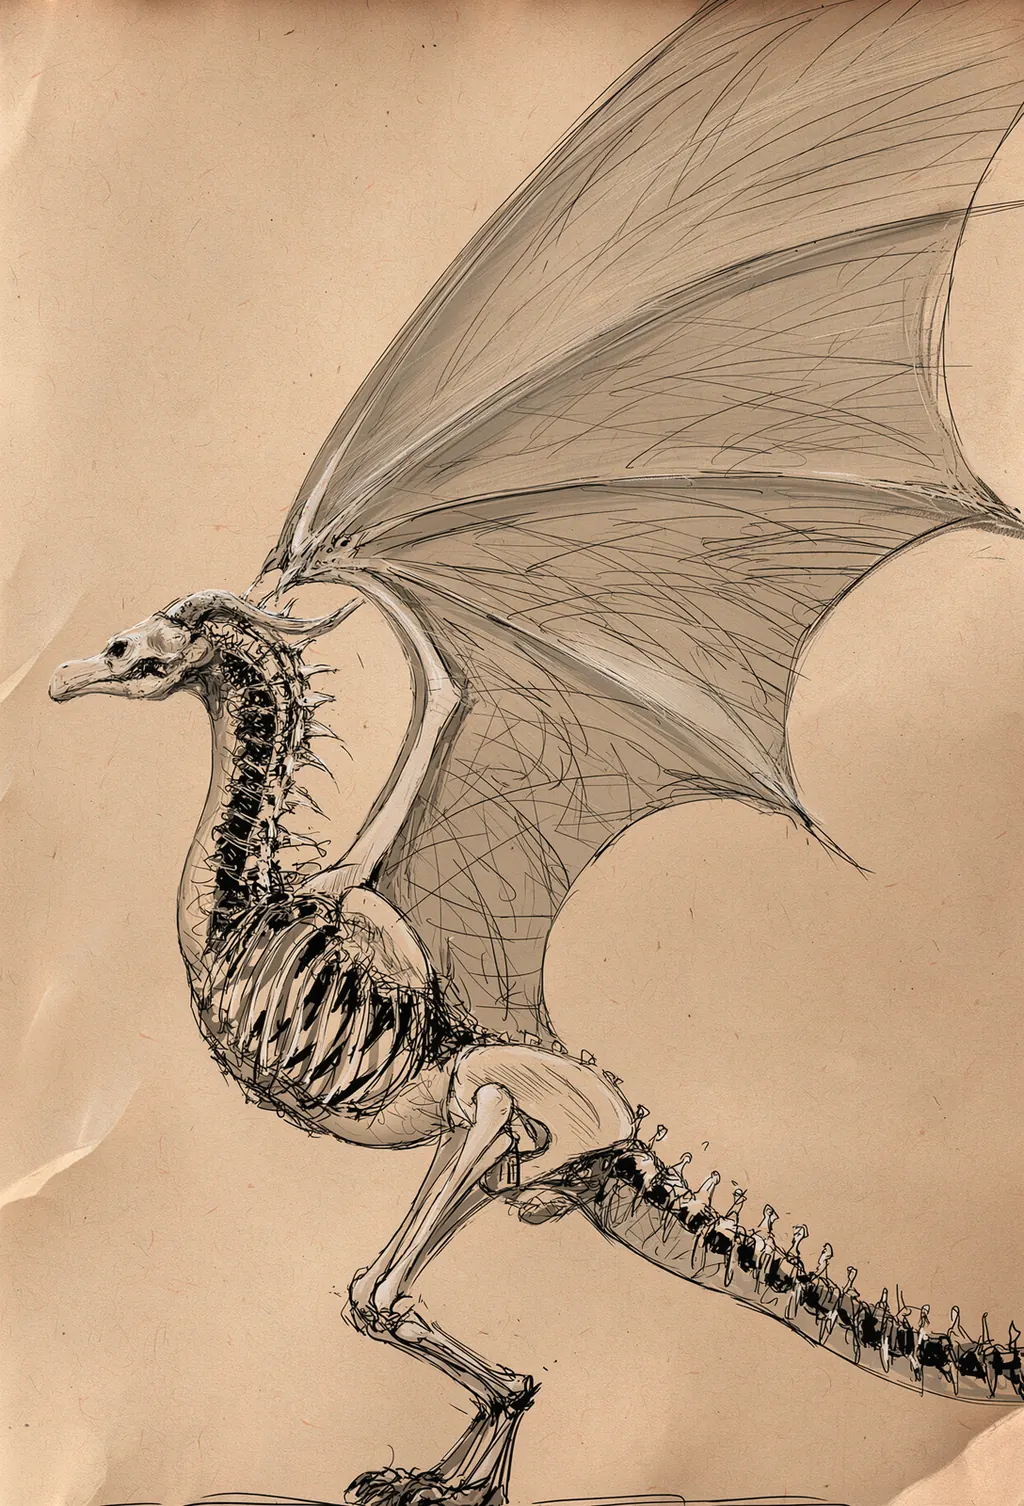
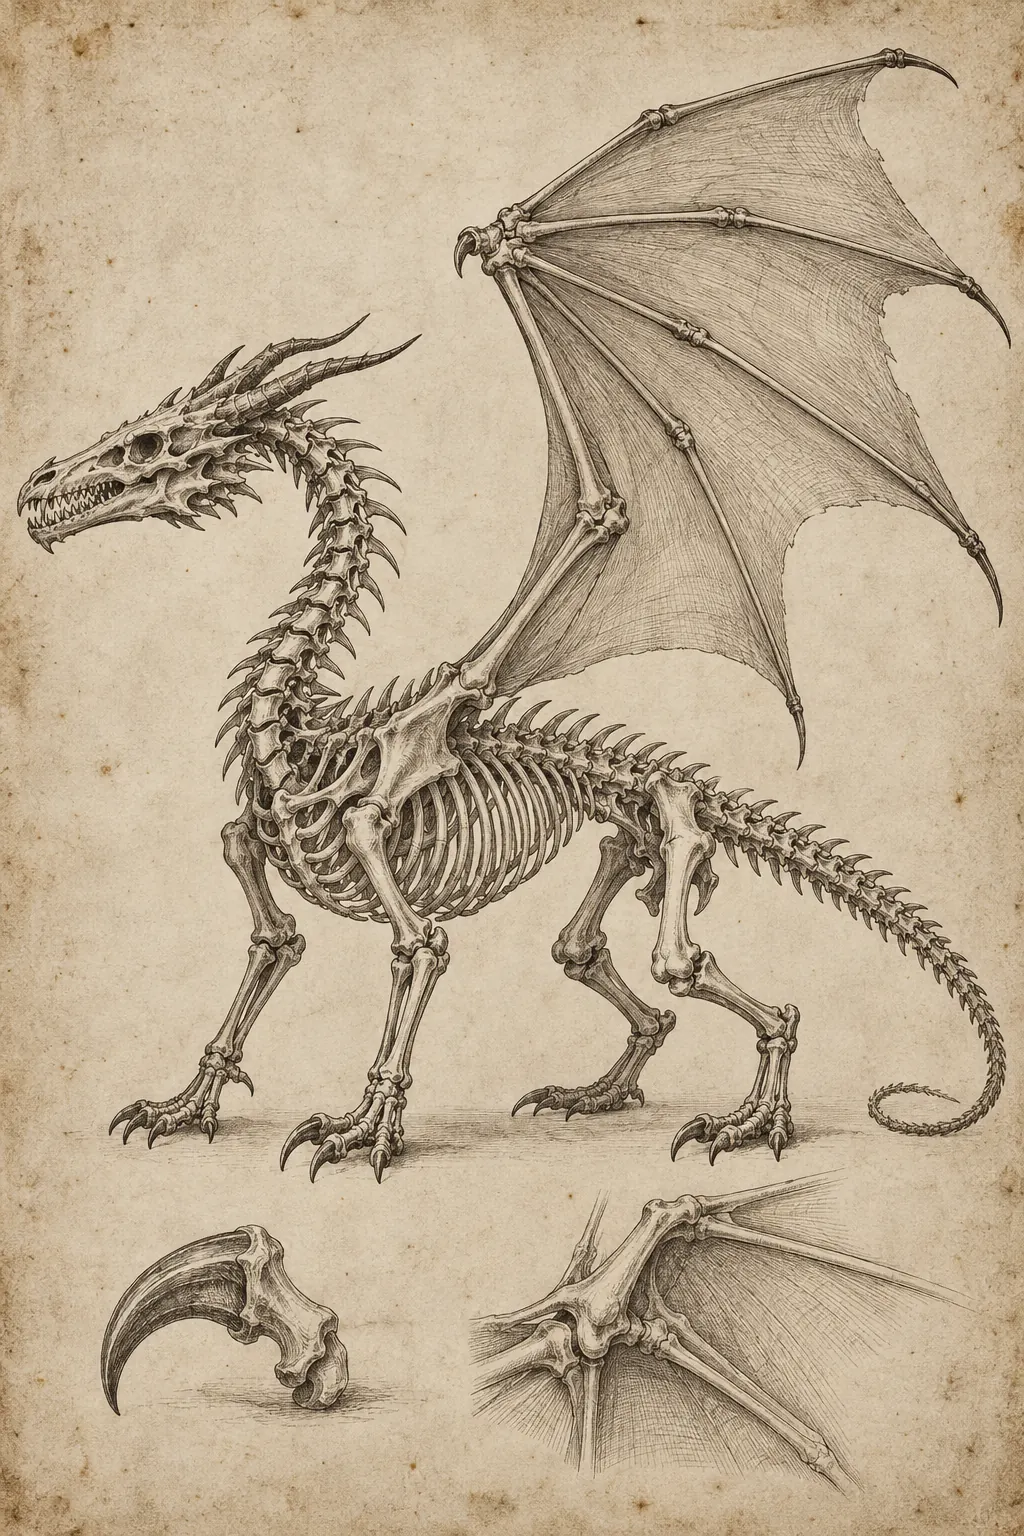
换上 GPT 出的 d20 徽章、符文圆环、草药图鉴、龙骨图鉴和四人小队
NovelAI 画不准 d20、出不了透明底的几张改用 GPT 图像生成：侧栏徽章换成黄铜 d20，车卡页勋章和 404 印记换成透明底符文圆环（404 印记改为圆形透明底），设置页水印换成草药图鉴，龙骨图鉴和联机卡片换成更准的版本。删掉不再使用的旧图。

diff --git a/web/index.html b/web/index.html
@@ -1036,7 +1036,7 @@
         .z-system-ui .settings-about-card {
             background-image:
                 linear-gradient(145deg, rgba(18,28,39,.95), rgba(7,13,21,.97)),
-                url("./assets/art/generated/marine-algae-herbarium.webp");
+                url("./assets/art/generated/dnd-herbarium-plate.webp");
             background-size: auto, 190px auto;
             background-position: center, right -42px bottom -86px;
             background-repeat: no-repeat;
@@ -1187,7 +1187,7 @@
             }
             .z-system-ui .settings-view:not([data-mobile-section="menu"]) .settings-image-card,
             .z-system-ui .settings-view:not([data-mobile-section="menu"]) .settings-about-card {
-                background-image: linear-gradient(145deg, rgba(18,28,46,.95), rgba(7,13,25,.97)), url("./assets/art/generated/marine-algae-herbarium.webp") !important;
+                background-image: linear-gradient(145deg, rgba(18,28,46,.95), rgba(7,13,25,.97)), url("./assets/art/generated/dnd-herbarium-plate.webp") !important;
                 background-size: auto, 150px auto !important;
                 background-position: center, right -44px bottom -72px !important;
             }
@@ -1910,7 +1910,7 @@
                 <div class="absolute inset-0 bg-gradient-to-b from-mystic-gold/5 to-transparent pointer-events-none"></div>
                 <div class="z-brand-lockup">
                     <div class="z-brand-emblem-shell">
-                        <img class="z-brand-emblem" src="assets/art/generated/dnd-brand-medallion.webp" alt="z-dnd 徽章" decoding="async">
+                        <img class="z-brand-emblem" src="assets/art/generated/dnd-brand-d20.webp" alt="z-dnd 徽章" decoding="async">
                     </div>
                     <div class="z-brand-copy">
                         <span class="z-brand-eyebrow">Z-DND / ARCHIVE</span>
@@ -2080,7 +2080,7 @@
                 </button>
                 <div v-if="getPageTitle() === 'z-dnd'" class="z-brand-lockup z-mobile-brand-lockup" aria-label="z-dnd / Dungeons & Dragons">
                     <div class="z-brand-emblem-shell">
-                        <img class="z-brand-emblem" src="assets/art/generated/dnd-brand-medallion.webp" alt="z-dnd 徽章" decoding="async">
+                        <img class="z-brand-emblem" src="assets/art/generated/dnd-brand-d20.webp" alt="z-dnd 徽章" decoding="async">
                     </div>
                     <div class="z-brand-copy">
                         <span class="z-brand-eyebrow">Z-DND / ARCHIVE</span>

diff --git a/web/404.html b/web/404.html
@@ -56,7 +56,7 @@
         .panel::after { content:""; position:absolute; left:0; top:0; width:72px; height:72px; pointer-events:none; opacity:.2; background:url("./assets/art/generated/archive-corner-brass.webp") left top/86px 86px no-repeat; filter:grayscale(.1) sepia(.12) saturate(.62) brightness(.75); }
         .panel-edge { position:absolute; inset:12px; pointer-events:none; border:1px solid rgba(195,161,90,.07); border-radius:10px; }
         .panel-edge::before { content:"FILE 404 / ARCHIVE WITHHELD"; position:absolute; right:16px; bottom:13px; color:rgba(195,161,90,.3); font:600 8px/1 ui-monospace,SFMono-Regular,Menlo,monospace; letter-spacing:.18em; }
-        .panel .sigil { background-image:url("./assets/art/generated/instrument-status-medallion.webp"); background-position:center; background-size:138% 138%; background-repeat:no-repeat; border-color:transparent; }
+        .panel .sigil { background-image:url("./assets/art/generated/dnd-medallion-ring.webp"); background-position:center; background-size:110% 110%; background-repeat:no-repeat; background-color:transparent; border-color:transparent; border-radius:50%; }
         .panel .desc { position:relative; width:min(100%,430px); padding-left:14px; border-left:1px solid rgba(69,216,194,.22); }
         .sigil { position:relative; width:60px; height:60px; display:grid; place-items:center; border:1px solid rgba(216,184,78,.28); border-radius:12px; color:var(--gold); background:rgba(216,184,78,.07); box-shadow:0 12px 34px rgba(0,0,0,.24),inset 0 1px 0 rgba(255,255,255,.05); }
         .sigil svg { width:31px; height:31px; }

diff --git a/web/Workshop/index.html b/web/Workshop/index.html
@@ -410,8 +410,8 @@
         .skill-table-shell .skill-remove:hover { border-color: rgba(180,78,67,.52); background: rgba(82,25,23,.42); }
         .z-medallion {
             background-color: transparent !important;
-            background-image: url("../assets/art/generated/instrument-status-medallion.webp") !important;
-            background-position: center !important; background-size: 128% 128% !important; background-repeat: no-repeat !important;
+            background-image: url("../assets/art/generated/dnd-medallion-ring.webp") !important;
+            background-position: center !important; background-size: 110% 110% !important; background-repeat: no-repeat !important;
             border-color: transparent !important; box-shadow: 0 8px 18px rgba(0,0,0,.26) !important;
         }
         .z-history-panel {

diff --git a/web/sw.js b/web/sw.js
@@ -1,4 +1,4 @@
-const CACHE_VERSION = 'z-coc-shell-v28';
+const CACHE_VERSION = 'z-coc-shell-v29';
 const APP_SHELL = [
     './',
     './index.html',

diff --git a/web/assets/art/PROMPTS.md b/web/assets/art/PROMPTS.md
@@ -4,7 +4,7 @@
 
 用 NovelAI V5（`nai-diffusion-5-full`，采样器 `k_dpmpp_2m_sde`，28 步，2K 尺寸，提示词引导值 5.5，缩放引导值 0）生成，网页用的是转成 webp 的版本。补图时沿用同一组画师串，画风才统一。
 
-- 画师串：`artist:wlop, artist:ask_(askzy), artist:kawacy, painterly, best quality, absurdres, very aesthetic, masterpiece, no text`（`dnd-bestiary-dragon` 只用 `artist:wlop`，好出单色素描）
+- 画师串：`artist:wlop, artist:ask_(askzy), artist:kawacy, painterly, best quality, absurdres, very aesthetic, masterpiece, no text`
 - 负面提示词：`lowres, worst quality, low quality, jpeg artifacts, blurry, text, watermark, signature, username, logo, artist name, frame, border, chibi, oversaturated`
 
 ### dnd-town-street.webp（横图）
@@ -55,14 +55,6 @@ no humans, scenery, indoors, fantasy library, wizard library, tall bookshelves, 
 no humans, scenery, indoors, underground vault, dungeon, stone walls, iron bars, iron gate, chained book, chains, ancient tomes on stone shelves, glowing runes, faint purple magic glow, single torch, cobweb, dust, dark, ominous, dark atmosphere, cinematic lighting, wide shot
 ```
 
-### dnd-party-campfire.webp（横图）
-
-用在：多人联机卡片
-
-```text
-multiple boys, multiple girls, adventurers, fantasy, from behind, sitting around campfire, night, forest clearing, cloak, armor, staff, bow (weapon), sword, starry sky, distant mountains, campfire glow, warm light, silhouette, wide shot, scenery, cinematic lighting, dark atmosphere
-```
-
 ### dnd-launch-dragon.webp（竖图）
 
 用在：开场动画
@@ -71,20 +63,38 @@ multiple boys, multiple girls, adventurers, fantasy, from behind, sitting around
 no humans, dragon, western dragon, coiled around ruined tower, wings spread, full moon, night sky, clouds, castle ruins, mountains, moonlight, epic, fantasy, dark atmosphere, cinematic lighting, from below, vertical composition
 ```
 
-### dnd-bestiary-dragon.webp（竖图）
+## DnD 版小件和图鉴（GPT 图像生成，2026-10-11）
 
-用在：手册、空状态水印
+NovelAI 画不准几何体、出不了透明底，这几张改用 GPT 出。
+
+### dnd-brand-d20.webp（品牌徽章：黄铜 d20）
 
 ```text
-no humans, traditional media, ink sketch, monochrome, sepia, western dragon, anatomy study, side view, wings, skeleton sketch, old paper, parchment, aged paper, scientific illustration, naturalist sketch, hatching, white space, no text
+A single twenty-sided die (d20, regular icosahedron with 20 equilateral triangular faces, geometrically accurate) made of aged dark brass with subtle engraved filigree on each face, the top face showing a small engraved dragon-claw sigil instead of a number. The die sits centered inside a round antique brass medallion frame with a thin beaded rim. Painterly dark-fantasy illustration, oil-paint texture, warm candlelight rim light from the upper left, deep near-black navy background with soft vignette. Centered, front-facing, symmetrical, the whole medallion fits inside the frame with a small margin so it can be cropped to a circle. Must read clearly at very small sizes. No text, no letters, no numbers, no watermark, no signature.
 ```
 
-### dnd-brand-medallion.webp（方图）
-
-用在：侧栏品牌徽章（裁成 384×384）
+### dnd-medallion-ring.webp（黄铜表圈：透明底）
 
 ```text
-no humans, still life, round brass medallion, coin, dragon relief, embossed dragon, coiled dragon, circular emblem, ornate border, metal, antique gold, centered, front view, symmetrical, dark background, simple background, rim light, close-up, no text, no letters
+An isolated circular ornamental ring made of blackened antique brass, like the bezel of a fantasy adventurer's compass: a thick round band engraved with small arcane runes and tiny d20 motifs, four small gem studs at north, east, south and west, slight wear and patina. The center of the ring is completely empty and transparent. Front view, perfectly centered, ring fills about 90% of the canvas. Soft warm highlight on the upper-left edge, dark shading on the lower right. Transparent background (or flat pure magenta #FF00FF if transparency is unavailable). Painterly realistic metal texture, no text, no letters, no numbers, no shadow on the background, no watermark.
+```
+
+### dnd-herbarium-plate.webp（奇幻草药图鉴页）
+
+```text
+A page from a fantasy herbalist's field journal: hand-engraved botanical illustrations of three imaginary magical plants (a curling moonleaf vine with crescent-shaped leaves, a small mushroom cluster with spotted caps, and a thistle-like flower with star-shaped petals), each drawn with fine ink cross-hatching and very light watercolor washes in muted sage green and faded amber. Printed on genuinely aged warm parchment with deckled edges, light foxing spots and a faint fold crease. Portrait composition, plants arranged loosely around the page with generous empty margins, like a real 18th-century natural-history plate. Flat archival scan lighting. No title, no labels, no captions, no letters, no numbers, no readable text, no border frame, no watermark.
+```
+
+### dnd-bestiary-dragon.webp（龙骨图鉴）
+
+```text
+A naturalist's anatomical study plate of a western dragon, drawn as a museum-quality copperplate engraving: the dragon's skeleton shown in side view with a horned reptilian skull, long serpentine neck vertebrae, ribcage, four clawed legs and the bone structure of one bat-like wing extended upward, plus two small secondary sketches of a single claw and a wing joint in the lower corner. Fine ink cross-hatching in faded sepia-black on aged warm gray parchment with slight ink spread, foxing spots and soft scan shadows. Portrait composition, specimen centered with quiet paper margins. Scientific and believable, not monstrous. No title, no labels, no letters, no numbers, no readable text, no decorative border, no watermark.
+```
+
+### dnd-party-campfire.webp（四人冒险小队）
+
+```text
+Four fantasy adventurers resting around a small campfire in a forest clearing at night, seen from slightly behind and to the side so their faces are mostly hidden: an armored fighter with a sword leaning on a log, a hooded ranger holding a longbow, a robed wizard with a tall staff, and a cleric with a round shield. Starry night sky with distant snowy mountains above the treeline. Painterly dark-fantasy oil painting, visible brush strokes, warm orange firelight on the figures against cool blue-gray night shadows. Wide landscape composition with the group in the lower third and plenty of dark sky above for text overlays. No text, no logo, no watermark, no signature.
 ```
 
 ## 沿用的克苏鲁版通用素材（GPT 图像生成）
@@ -117,20 +127,6 @@ Lighting/mood: flat archival scan, scholarly, secretive and quietly ominous
 Color palette: near-black navy paper, faded bone-white graphite, restrained oxidized teal and tiny antique brass pencil accents
 Constraints: no readable words, letters, numbers or labels; no zodiac symbols, pentagrams, occult clichés, fantasy magic glow, logo, signature, border, or watermark
 Avoid: vector-perfect geometry, modern infographic style, luminous galaxy photography, decorative tattoo design, obvious AI artifacts
-```
-
-### 9. 海藻腊叶标本
-
-```text
-Use case: scientific-educational
-Asset type: decorative natural-history plate for library cards, archive empty states and side-panel accents in a dark Cthulhu tabletop web app
-Primary request: an authentic late-19th-century pressed marine algae herbarium sheet with three distinct specimens of dark branching seaweed, a few salt crystals and a tiny dried shell fragment, arranged by a real museum curator
-Style/medium: photorealistic flatbed scan of genuine pressed specimens mounted on aged cool-gray rag paper; delicate organic edges, brittle fibers, faded pigment, subtle mounting-thread shadows and uneven paper wear
-Composition/framing: portrait plate, specimens distributed vertically with generous margins and natural asymmetry; visually interesting silhouette at small size
-Lighting/mood: flat archival scan, scientifically sober, coastal, melancholy and faintly uncanny
-Color palette: charcoal brown, desaturated bottle green, oxidized teal, cool old paper and restrained sepia
-Constraints: all label areas blank; no readable text, letters, numbers, handwriting, stamps, logos, signatures, decorative frame or watermark; no tentacle monster or fantasy anatomy
-Avoid: botanical illustration look, modern stock photography, bright green plants, perfect symmetry, glossy wet surfaces, obvious AI artifacts
 ```
 
 ### 11. 黑化黄铜档案角件
@@ -176,20 +172,5 @@ Color palette: charcoal linen, blackened brass, muted brown-red wax, a trace of 
 Scene/backdrop: perfectly flat solid #ff00ff chroma-key background for local background removal
 Constraints: background must be one uniform #ff00ff color with no shadows, gradients, texture, reflections, floor plane or lighting variation; crisp separated edges; do not use magenta in the object; no readable text, letters, numbers, symbols, heraldry, tentacles, skulls, logo, signature or watermark
 Avoid: decorative ribbon bow, fantasy scrollwork, steampunk machinery, bright red, glossy CGI, excessive complexity, obvious AI artifacts
-```
-
-### 15. 科学仪器状态表圈
-
-```text
-Use case: stylized-concept
-Asset type: reusable status medallion and section-heading accent for a dark archival website
-Primary request: one small circular 1890s scientific instrument bezel made from blackened brass, with a recessed center of dark blue-black enamel, a thin oxidized teal calibration ring and four tiny flush screws
-Style/medium: photorealistic museum-object scan, restrained precision instrument hardware with real patina, scratches and slightly imperfect machining
-Composition/framing: one isolated circular token, front-on orthographic view, centered with generous padding, strong simple silhouette
-Lighting/mood: flat archival documentation light, no cast shadow
-Color palette: charcoal brass, muted antique gold, near-black navy enamel and restrained oxidized teal
-Scene/backdrop: perfectly flat solid #ff00ff chroma-key background for local removal
-Constraints: the center is blank; background is one uniform #ff00ff with no gradient, shadow, texture, reflection or floor plane; do not use magenta in the object; no glyph, eye, star, rune, readable text, letters, numbers, logo, signature or watermark
-Avoid: coin portrait, occult seal, compass rose, steampunk gear, glossy CGI, bright gold, obvious AI artifacts
 ```
 

diff --git a/web/assets/art/README.md b/web/assets/art/README.md
@@ -1,6 +1,6 @@
 # z-dnd 美术素材
 
-场景大图是 DnD 奇幻题材，2026-10-11 用 NovelAI 生成；布纹、黄铜零件、星图、标本页沿用原 z-coc 素材包（GPT 图像生成），它们没有题材色彩。各图的提示词见 `PROMPTS.md`。
+DnD 奇幻题材的图 2026-10-11 生成：场景大图用 NovelAI；d20 徽章、透明圆环、草药图鉴、龙骨图鉴、四人小队这几张 NovelAI 画不准，改用 GPT 图像生成。布纹、黄铜零件、星图沿用原 z-coc 素材包，它们没有题材色彩。提示词都在 `PROMPTS.md`。
 
 ## 使用原则
 
@@ -18,14 +18,14 @@
 | `generated/dnd-tavern-night.webp` | 冒险小说 | 打烊后的奇幻酒馆 |
 | `generated/dnd-guild-library.webp` | 图书馆阅览室 | 圆顶法师图书馆 |
 | `generated/dnd-forbidden-vault.webp` | 图书馆禁书区 | 地下禁书库、铁栅门和锁链 |
-| `generated/dnd-party-campfire.webp` | 多人联机卡片 | 星空下围着篝火的冒险者 |
+| `generated/dnd-party-campfire.webp` | 多人联机卡片 | 篝火边的四人冒险小队（GPT） |
 | `generated/dnd-launch-dragon.webp` | 开场动画 | 满月下盘踞高塔的龙 |
-| `generated/dnd-bestiary-dragon.webp` | 冒险者手册、空状态水印 | 龙骨解剖素描 |
-| `generated/dnd-brand-medallion.webp` | 侧栏品牌徽章 | 龙纹黄铜圆章 |
+| `generated/dnd-bestiary-dragon.webp` | 冒险者手册、空状态水印 | 龙骨解剖版画（GPT） |
+| `generated/dnd-brand-d20.webp` | 侧栏品牌徽章 | 黄铜圆框里的 d20（GPT） |
+| `generated/dnd-medallion-ring.webp` | 车卡页勋章、404 页印记 | 黄铜符文圆环，中间空，透明背景（GPT） |
+| `generated/dnd-herbarium-plate.webp` | 设置页、空状态卡片水印 | 奇幻草药图鉴页（GPT） |
 | `generated/dark-archive-cloth-texture.webp` | 全局底纹、卡片、侧栏 | 低对比布纹 |
 | `generated/observatory-chart-1890s.webp` | 侧栏、设置、卡片水印 | 天文观测草图 |
-| `generated/marine-algae-herbarium.webp` | 空状态、卡片装饰 | 标本页 |
 | `generated/archive-corner-brass.webp` | 卡片左上角件 | 黄铜角件，透明背景 |
 | `generated/museum-label-holder.webp` | 横幅编号、标签 | 黄铜标签框，透明背景 |
 | `generated/evidence-binding-strip.webp` | 卡片底边 | 封蜡装订带，透明背景 |
-| `generated/instrument-status-medallion.webp` | 状态图标、徽章 | 黄铜表圈，透明背景 |
